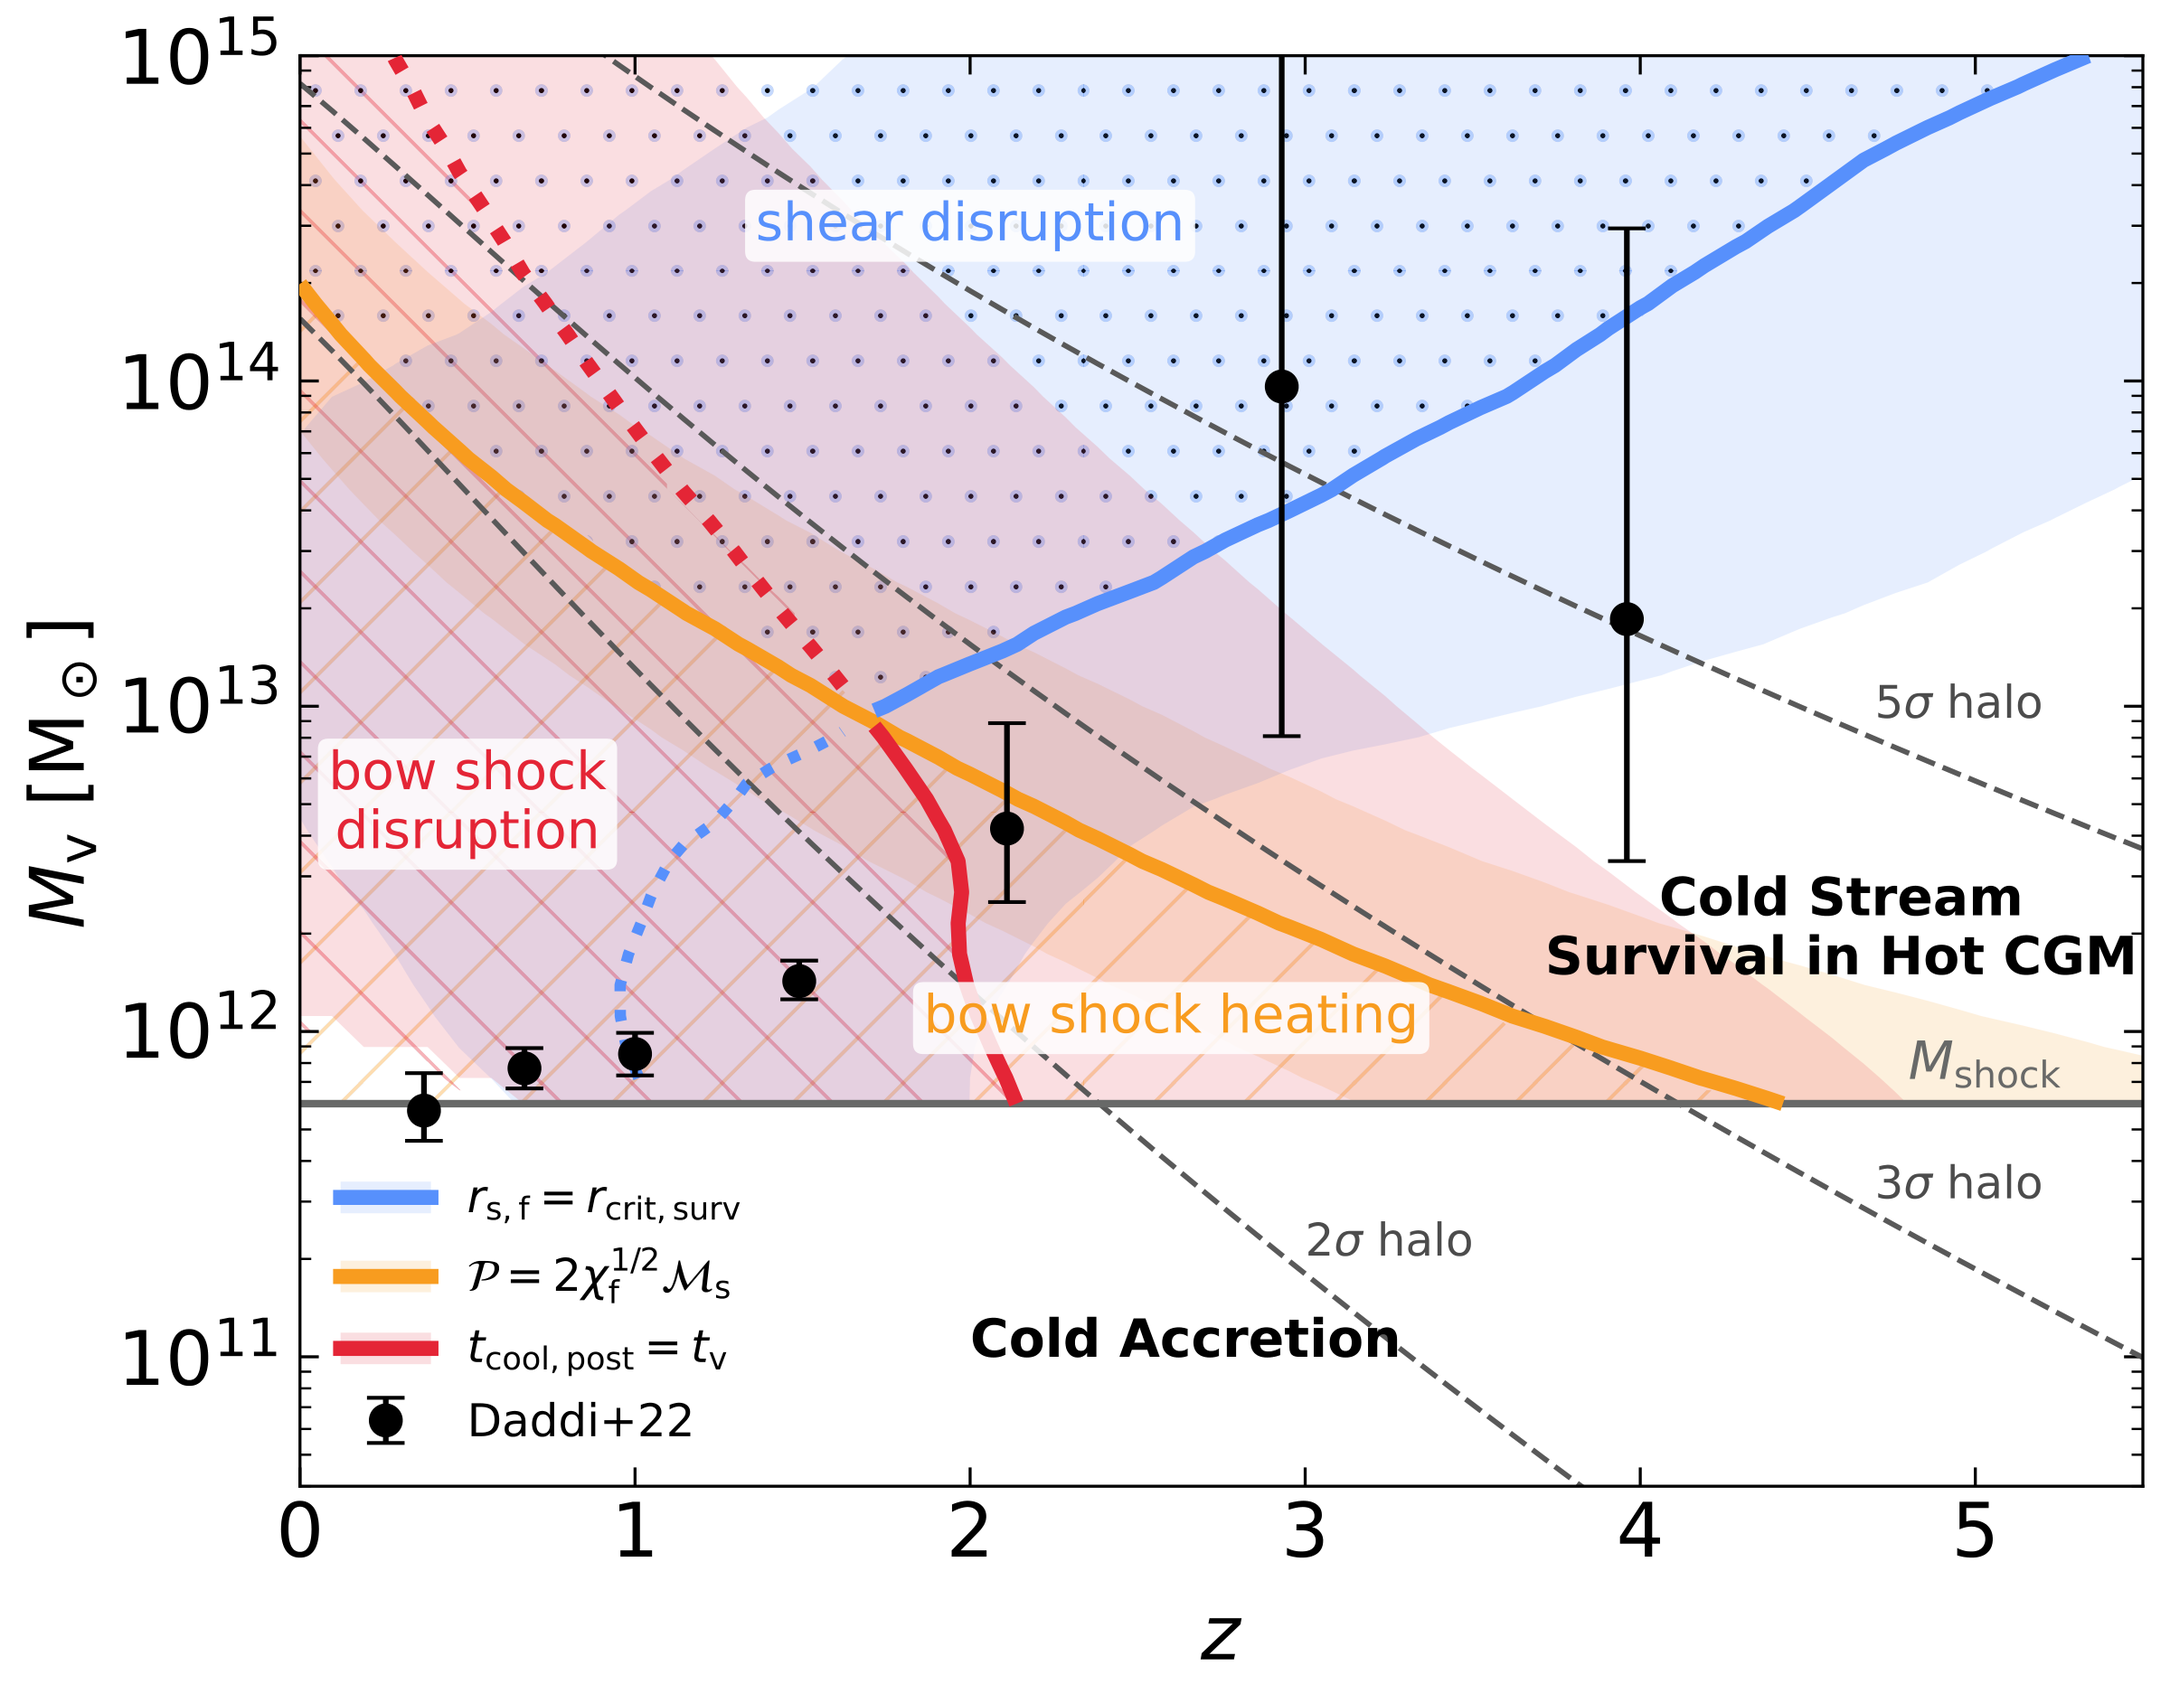
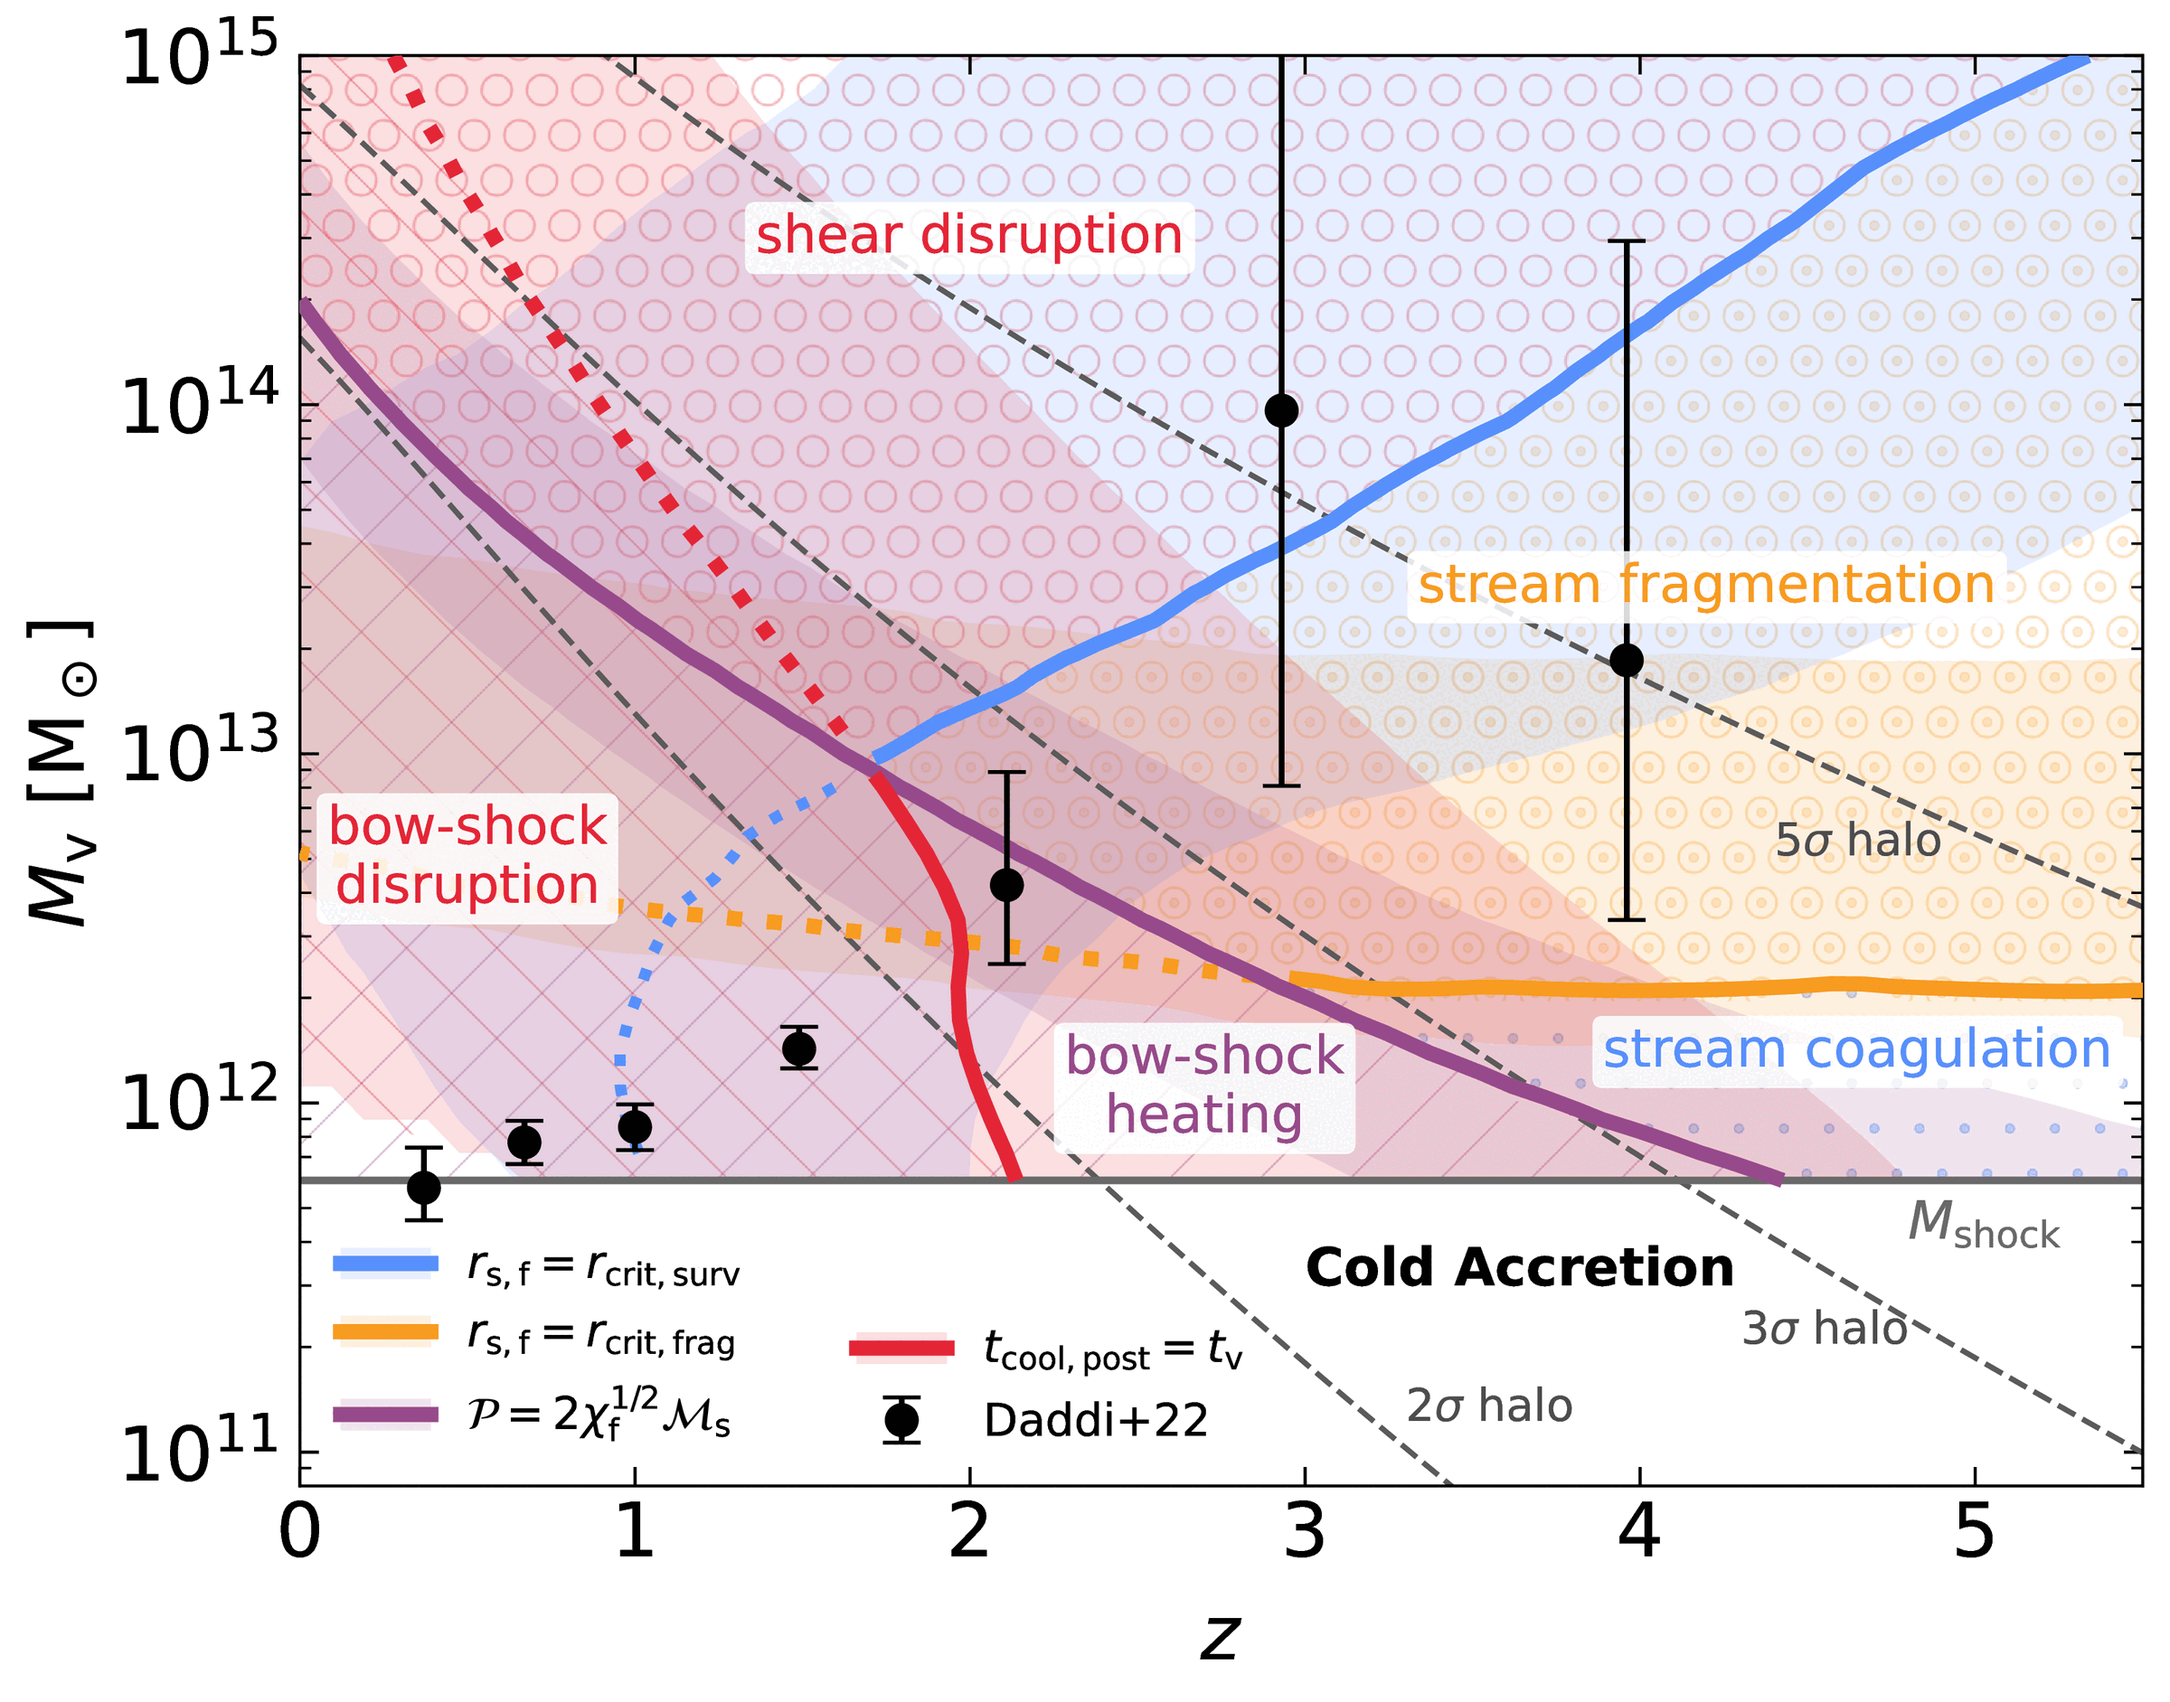
Stream penetration: update Fig. 17 and caption with revised Diag_Mv_z

diff --git a/stream_penetration.html b/stream_penetration.html
@@ -299,8 +299,8 @@ footer{margin-top:60px;padding-top:18px;border-top:1px solid var(--rule);font-si
   </figure>
 
   <figure class="fig">
-    <img src="images/penetration/Diag_Mv_z.png" alt="Halo mass versus redshift map showing where cold streams survive, are shock-heated, or are disrupted">
-    <figcaption><strong>Fig. 17 of the paper.</strong> Cold-stream penetration in the halo mass&ndash;redshift plane. Solid curves use the fiducial model parameters; shaded bands show the variation over the adopted parameter ranges. The horizontal gray line marks the transition between hot and cold accretion, M<sub>shock</sub>&nbsp;&asymp;&nbsp;6&times;10<sup>11</sup>&nbsp;M<sub>&#9737;</sub> (Dekel &amp; Birnboim 2006). The orange curve marks the bow-shock heating criterion, &#119979;&nbsp;=&nbsp;2&chi;<sub>f</sub><sup>1/2</sup>&#8499;<sub>s</sub>; the red curve marks t<sub>cool,post</sub>&nbsp;=&nbsp;t<sub>v</sub>, separating shock-heated streams that can cool within a virial crossing time from those that remain hot; the blue curve marks the shear-survival threshold, r<sub>s,f</sub>&nbsp;=&nbsp;r<sub>crit,surv</sub>. Dotted segments indicate where a criterion is no longer valid. Orange and red hatching identify early bow-shock heating and bow-shock disruption due to inefficient post-shock cooling, and blue stippling identifies shear disruption, for the fiducial parameters. Black points show halo masses inferred from the bending of the SFR relation (Daddi et al. 2022); black dashed lines show evolutionary tracks of 2&sigma;, 3&sigma; and 5&sigma; peak halos. See the paper for details.</figcaption>
+    <img src="images/penetration/Diag_Mv_z.png" alt="Halo mass versus redshift map showing where cold streams survive, fragment, coagulate, are shock-heated, or are disrupted">
+    <figcaption><strong>Fig. 17 of the paper.</strong> Cold-stream penetration in the halo mass&ndash;redshift plane. Curves show thresholds for the fiducial parameters, and shaded bands show the sampled parameter sensitivity by varying the parameters in the adopted range. The horizontal gray line marks the transition between hot and cold accretion, M<sub>shock</sub>&nbsp;&asymp;&nbsp;6&times;10<sup>11</sup>&nbsp;M<sub>&#9737;</sub> (Dekel &amp; Birnboim 2006). The blue curve marks the shear-survival threshold, r<sub>s,f</sub>&nbsp;=&nbsp;r<sub>crit,surv</sub>, and the orange curve marks the fragmentation threshold, r<sub>s,f</sub>&nbsp;=&nbsp;r<sub>crit,frag</sub>. The purple curve marks the bow-shock heating criterion, &#119979;&nbsp;=&nbsp;2&chi;<sub>f</sub><sup>1/2</sup>&#8499;<sub>s</sub>. The red curve marks t<sub>cool,post</sub>&nbsp;=&nbsp;t<sub>v</sub>, separating shock-heated streams that can cool within a virial crossing time from those that remain hot. Hatching marks the fiducial regimes: blue dots for stream coagulation, orange circles with dots for stream fragmentation, purple slashes for bow-shock heating, red backslashes for bow-shock disruption, and red circles for shear disruption. Dotted curve segments indicate where the corresponding criterion is outside its adopted domain of applicability. Fragmentation and coagulation are shown only for streams that survive shear disruption in a hot halo and lie outside the bow-shock heating regime. Black points with error bars show halo masses inferred from the bending of the SFR relation (Daddi et al. 2022), providing observational context. Black dashed lines show halo evolutionary tracks for 2&sigma;, 3&sigma; and 5&sigma; peaks. See the paper for details.</figcaption>
   </figure>
 
   <h2>Appendix. Convergence tests</h2>
